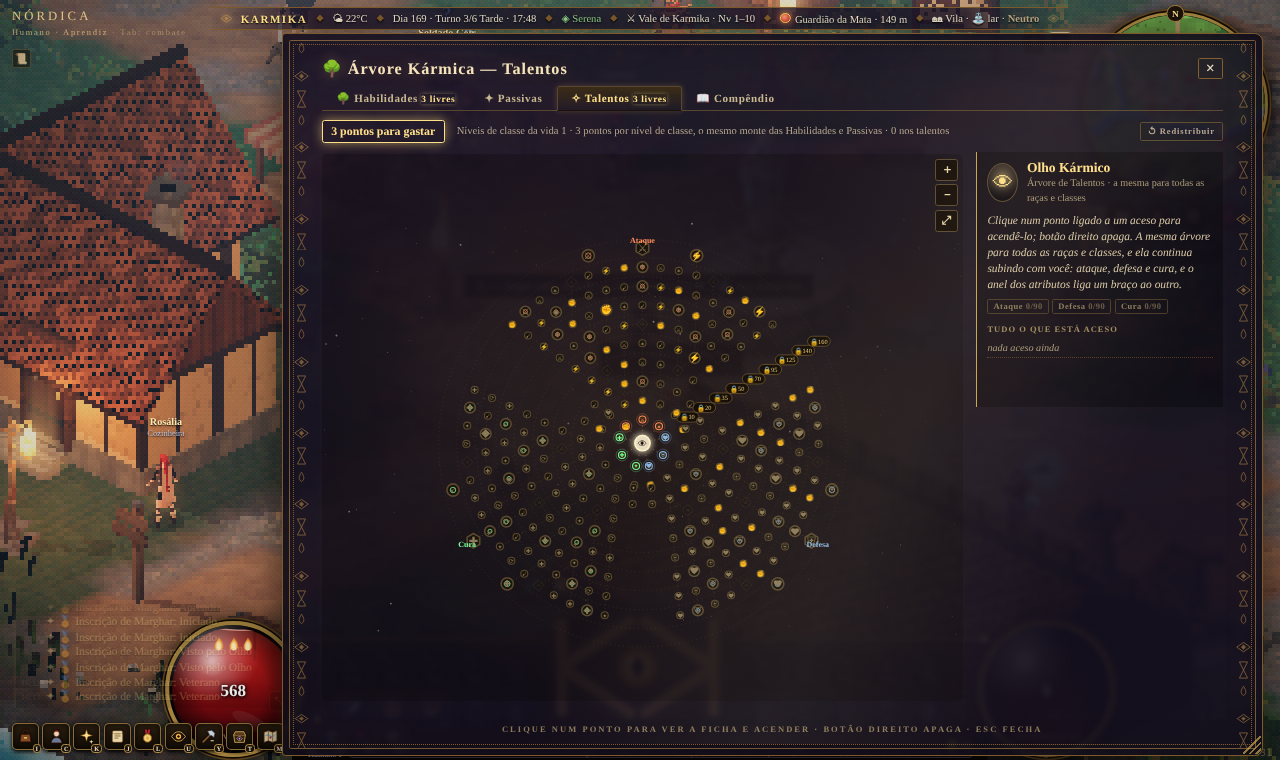
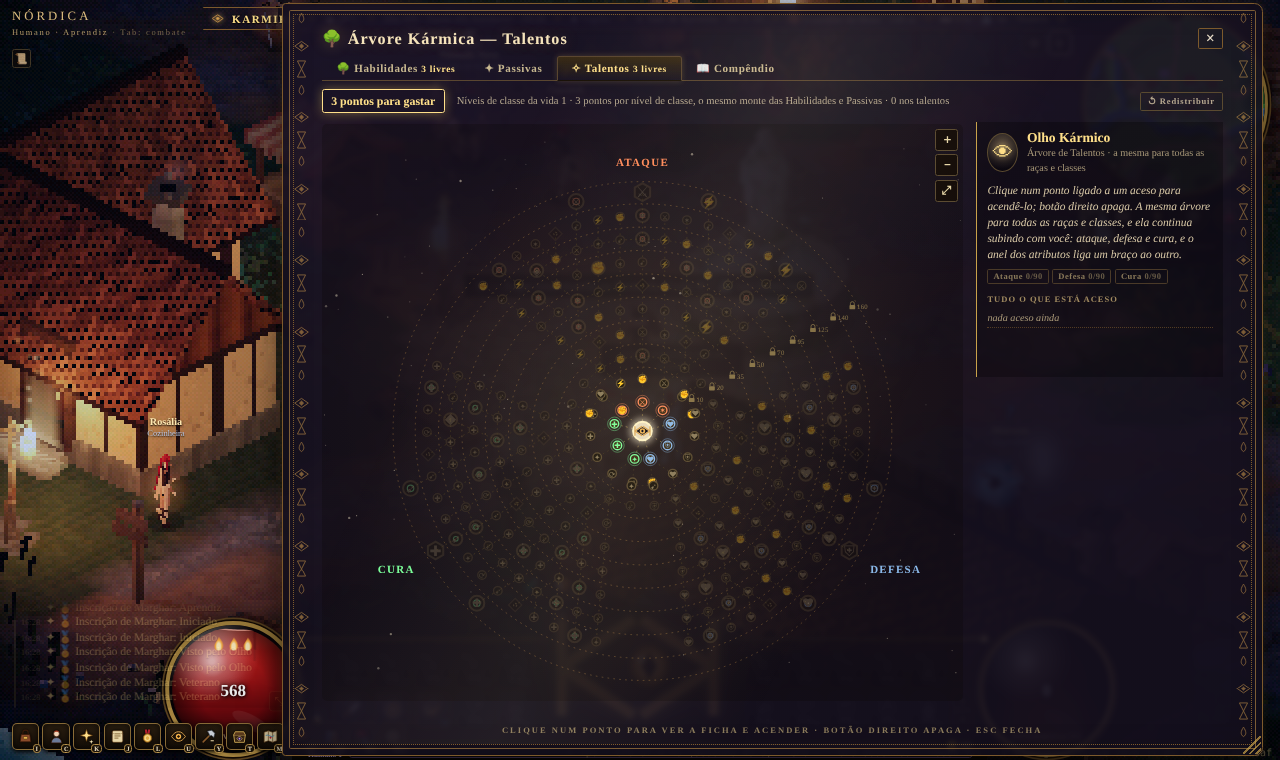
WebGPU: destruir buffer vira só marca (o three reusava buffer destruído) + registro de buffer velho; árvore: cadeado mínimo que brilha e quebra o lacre, nós trancados apagados, Olho com os dois K no centro, nomes dos braços fora do círculo; alinhamento kármico em escala de 10.000 (Lenda Viva = 5.000
Claude-Session: https://claude.ai/code/session_011Q13KsK35R24aYscTFTDoe

diff --git a/client/src/alinhamento.ts b/client/src/alinhamento.ts
@@ -1,5 +1,5 @@
 /* ALINHAMENTO KÁRMICO (Erling, 25/10): "o que os outros jogos chamam de reputação, no nosso é o alinhamento kármico com o lugar".
-   Cada vila e cidade, cada região e cada facção guarda o quanto a sua alma combina com ela (−100 a +100).
+   Cada vila e cidade, cada região e cada facção guarda o quanto a sua alma combina com ela (−10.000 a +10.000).
    - Sobe: missões dadas por gente do lugar (+6 história, +3 as outras), bichos derrubados perto das casas (+0,25), eventos vencidos
      do lado da luz no lugar (+5). A região sobe junto, mais devagar. A facção a que você jurou sobe +1 a cada missão (a outra cai −1).
    - Desce: comer gente no lugar (−20), sangue de gente nas ruas, eventos vencidos do lado da sombra (−5).
@@ -8,11 +8,15 @@
 import { floatWin } from './windows';
 
 export interface AlignTier { min: number; name: string; col: string; price: number }
+/* 04/11 (Erling: "já sou lenda viva no level 7? para alcançar Lenda Viva preciso de uns 5 mil pontos na vila"): escala de −10.000 a +10.000.
+   Cada ganho vale 10× (missão da história +60, outra +30, evento +50, festa +100) e o bicho perto das casas quase nada (+0,5). Lenda Viva = 5.000:
+   umas cem missões e muitos eventos pela vila. Os valores antigos (−100 a +100) são multiplicados por 10 uma vez. */
+export const ALIGN_SC = 10, ALIGN_MAX = 10000;
 export const TIERS: AlignTier[] = [
-  { min: -101, name: 'Odiado', col: '#c03a3a', price: 1.25 }, { min: -60, name: 'Hostil', col: '#e06a4a', price: 1.15 },
-  { min: -25, name: 'Desconfiado', col: '#d8a060', price: 1.05 }, { min: -5, name: 'Neutro', col: '#b8a888', price: 1 },
-  { min: 10, name: 'Conhecido', col: '#c8d890', price: 1 }, { min: 30, name: 'Amigo', col: '#8ad08a', price: 0.95 },
-  { min: 60, name: 'Honrado', col: '#6ab4ff', price: 0.92 }, { min: 85, name: 'Lenda Viva', col: '#ffd24a', price: 0.88 },
+  { min: -10001, name: 'Odiado', col: '#c03a3a', price: 1.25 }, { min: -5000, name: 'Hostil', col: '#e06a4a', price: 1.15 },
+  { min: -1500, name: 'Desconfiado', col: '#d8a060', price: 1.05 }, { min: -250, name: 'Neutro', col: '#b8a888', price: 1 },
+  { min: 500, name: 'Conhecido', col: '#c8d890', price: 1 }, { min: 1500, name: 'Amigo', col: '#8ad08a', price: 0.95 },
+  { min: 3000, name: 'Honrado', col: '#6ab4ff', price: 0.92 }, { min: 5000, name: 'Lenda Viva', col: '#ffd24a', price: 0.88 },
 ];
 export const tierOf = (v: number) => { let t = TIERS[0]; for (const x of TIERS) if (v >= x.min) t = x; return t; };
 type Kind = 'vila' | 'regiao' | 'faccao';
@@ -20,16 +24,17 @@ interface St { v: Record<string, number>; seen: Record<string, number>; flags: R
 const KEY = 'karmika.align.v1';
 export function createAlign(ctx: { places(): { name: string; kind: 'city' | 'village' }[]; regions(): string[]; factions(): { id: string; name: string }[]; myFac(): string | null; log(t: string, c?: string): void; /** uma linha sobre o lugar onde você está agora (festa, por que sim, por que não) */ status?(): string }) {
   let S: St = { v: {}, seen: {}, flags: {} }; try { const o = JSON.parse(localStorage.getItem(KEY) || 'null'); if (o?.v) S = { ...S, ...o }; } catch { /* */ }
+  if (!S.flags.x10) { for (const kk of Object.keys(S.v)) S.v[kk] = Math.max(-ALIGN_MAX, Math.min(ALIGN_MAX, S.v[kk] * ALIGN_SC)); S.flags.x10 = 1; try { localStorage.setItem(KEY, JSON.stringify(S)); } catch { /* */ } }
   const save = () => { try { localStorage.setItem(KEY, JSON.stringify(S)); } catch { /* */ } };
   const k = (kind: Kind, name: string) => `${kind}:${name}`;
   const get = (kind: Kind, name: string) => S.v[k(kind, name)] ?? 0;
   /** muda e avisa quando passa de faixa */
-  function add(kind: Kind, name: string, dv: number, why?: string, quiet = false) { if (!name || !dv) return; const key = k(kind, name), a = S.v[key] ?? 0, b = Math.max(-100, Math.min(100, a + dv)); S.v[key] = b;
+  function add(kind: Kind, name: string, dv: number, why?: string, quiet = false) { if (!name || !dv) return; const key = k(kind, name), a = S.v[key] ?? 0, b = Math.max(-ALIGN_MAX, Math.min(ALIGN_MAX, a + dv * ALIGN_SC)); S.v[key] = b;
     const ta = tierOf(a), tb = tierOf(b); if (ta !== tb && !quiet) ctx.log(`${b > a ? '▲' : '▼'} Alinhamento Kármico com ${name}: agora ${tb.name}${why ? ` (${why})` : ''}.`, tb.col); save(); if (open) render(); }
   /* ---------- a janela ---------- */
   const el = document.createElement('div'); el.id = 'alignw'; el.className = 'modalw'; document.body.appendChild(el); setTimeout(() => floatWin(el, 'align', { left: '30vw', top: '8vh' }), 0);
   let open = false, tab: Kind = 'vila';
-  const row = (name: string, v: number, sub = '') => { const t = tierOf(v), pct = (v + 100) / 2; return `<div class="alr"><div class="alh"><b>${name}</b><span style="color:${t.col}">${t.name}</span><em>${v > 0 ? '+' : ''}${Math.round(v)}</em></div><div class="albar"><i style="left:50%;width:0"></i><u style="left:${Math.min(50, pct)}%;width:${Math.abs(pct - 50)}%;background:${t.col}"></u></div>${sub ? `<small>${sub}</small>` : ''}</div>`; };
+  const row = (name: string, v: number, sub = '') => { const t = tierOf(v), pct = (v + ALIGN_MAX) / (ALIGN_MAX * 2) * 100; return `<div class="alr"><div class="alh"><b>${name}</b><span style="color:${t.col}">${t.name}</span><em>${v > 0 ? '+' : ''}${Math.round(v)}</em></div><div class="albar"><i style="left:50%;width:0"></i><u style="left:${Math.min(50, pct)}%;width:${Math.abs(pct - 50)}%;background:${t.col}"></u></div>${sub ? `<small>${sub}</small>` : ''}</div>`; };
   function render() { if (!open) { el.style.display = 'none'; return; }
     let body = '';
     if (tab === 'vila') { const P = ctx.places().slice().sort((a, b) => get('vila', b.name) - get('vila', a.name) || a.name.localeCompare(b.name)); body = P.map((p) => { const v = get('vila', p.name), t = tierOf(v); return row(`${p.kind === 'city' ? '🏰' : '🏘'} ${p.name}`, v, t.price !== 1 ? `Lojas daqui: ${t.price < 1 ? '−' : '+'}${Math.round(Math.abs(1 - t.price) * 100)}%` : S.seen[p.name] ? '' : 'Ainda não te conhecem.'); }).join(''); }

diff --git a/client/src/gpu/impl.ts b/client/src/gpu/impl.ts
@@ -245,9 +245,13 @@ export async function createGPURenderer(): Promise<THREE.WebGLRenderer | null> {
   /* 04/11 (erro do PC do Erling: "[Buffer] used in submit while destroyed"): o three destrói buffers e texturas da placa NA HORA em que um
      objeto/material/geometria muda ou some — às vezes no meio do quadro, com o comando que ainda usa aquele buffer (a sombra, a 1ª etapa)
      esperando para ser enviado. No WebGL isso não importa; no WebGPU o envio inteiro é recusado e, depois de alguns, o jogo caía para o
-     WebGL. Agora destruir é ADIADO: o buffer/textura vai para uma fila e só é destruído 3 quadros depois (gpuFlushDestroy, no fim do quadro). */
+     WebGL. (1ª tentativa: adiar 3 quadros — não bastou; ver abaixo) */
   { const GB = (globalThis as any).GPUBuffer?.prototype, GT2 = (globalThis as any).GPUTexture?.prototype;
-    for (const P of [GB, GT2]) if (P && !P.__kLate) { const real = P.destroy; P.__kLate = true; P.__kReal = real; P.destroy = function (this: any) { if (this.__kGone) return; this.__kGone = true; lateQ.push({ o: this, f: lateFrame, real }); }; } }
+    /* 2ª tentativa (04/11, mesmo erro no PC do Erling com o adiamento de 3 quadros): o three continua usando o buffer DEPOIS de pedir para
+       destruí-lo (referência velha guardada). Então destruir vira só uma marca: o buffer some sozinho quando ninguém mais aponta para ele
+       (o navegador libera a memória da placa no coletor de lixo). Se alguém ainda usar um buffer "destruído", conta e guarda de onde veio. */
+    for (const P of [GB, GT2]) if (P && !P.__kLate) { P.__kLate = true; P.destroy = function (this: any) { if (this.__kGone) return; this.__kGone = true; if (gpuState.staleLog.length < 4) this.__kWhy = (new Error().stack || '').split('\n').slice(2, 7).map((x) => x.trim()).join(' < '); }; }
+    const RP = (globalThis as any).GPURenderPassEncoder?.prototype; if (RP && !RP.__kChk) { RP.__kChk = true; for (const fn of ['setVertexBuffer', 'setIndexBuffer']) { const o = RP[fn]; RP[fn] = function (this: any, ...a: any[]) { const b = fn === 'setVertexBuffer' ? a[1] : a[0]; if (b?.__kGone) { gpuState.stale++; if (gpuState.staleLog.length < 4) { const m = `buffer velho em ${fn}: ${b.__kWhy ?? '?'}`; gpuState.staleLog.push(m); gpuState.log.unshift(m.slice(0, 400)); } } return o.apply(this, a); }; } } }
   const R = new (W as any).WebGPURenderer({ antialias: false, powerPreference: 'high-performance' });
   await R.init();
   if (!R.backend?.isWebGPUBackend) { R.dispose?.(); gpuState.why = 'o navegador não liberou o WebGPU'; return null; }

diff --git a/client/src/sistemas/festa.ts b/client/src/sistemas/festa.ts
@@ -20,7 +20,7 @@ function leavingQuest(stName: string) { for (const id of Object.keys(K.quests.q.
     const far = (d.turnin && K.npcHome(d.turnin)?.name && K.npcHome(d.turnin)!.name !== stName) || d.objs.some((o) => o.kind === 'visit' && o.poi !== stName && K.city.settlements.some((q) => q.name === o.poi)); if (far) return d; } return null; }
 /* a festa de despedida acontece em TODO lugar onde você é amado (Amigo ou mais; em Karmika basta Conhecido), uma vez por lugar, quando uma missão te leva embora */
 /** o painel do alinhamento diz, sem segredo, como está a festa do lugar onde você está (Erling, 26/10: "o Garrick não me fez o convite") */
-function festaStatus() { const st = K.hereSettle(); if (!st) return '📍 Você está fora de qualquer vila ou cidade agora.'; const nm = st.name, v = K.align.get('vila', nm), need = nm === 'Karmika' ? 10 : 30, t = K.align.tier('vila', nm), lq = leavingQuest(nm), ok = (b: boolean) => b ? '✔' : '✖';
+function festaStatus() { const st = K.hereSettle(); if (!st) return '📍 Você está fora de qualquer vila ou cidade agora.'; const nm = st.name, v = K.align.get('vila', nm), need = nm === 'Karmika' ? 100 : 300, t = K.align.tier('vila', nm), lq = leavingQuest(nm), ok = (b: boolean) => b ? '✔' : '✖';
   const counted = K.quests.q.done.filter((id) => K.align.flag('q:' + id)).length;
   if (K.align.flag('festa_' + nm)) return `📍 <b>${nm}</b>: <span style="color:${t.col}">${t.name} (${Math.round(v)})</span> · 🎉 a festa de despedida daqui já aconteceu.`;
   return `📍 <b>${nm}</b>: <span style="color:${t.col}">${t.name} (${v > 0 ? '+' : ''}${Math.round(v)})</span> · ${counted}/${K.quests.q.done.length} missões feitas já contaram<br>🎉 Festa de despedida: ${ok(v >= need)} alinhamento ${need}+ · ${ok(!!lq)} ${lq ? `“${lq.name}” te leva embora` : 'nenhuma missão da história dada aqui te leva para outro lugar'}${v >= need && lq ? ' · <b>pronta: o convite chega em instantes</b>' : ''}`; }

diff --git a/client/src/sistemas/conversa-npc.ts b/client/src/sistemas/conversa-npc.ts
@@ -57,7 +57,7 @@ function talkTo(n: (typeof K.npcSys.npcs)[number]) {
   if (nm === 'Elowen' || nm === 'Elowen do Porto') choices.push({ kind: 'custom', label: 'Abrir o Shop', hint: 'Premium e brasões', cb: () => { K.dlg.close(); K.loja.toggle('prem'); } });
   if (nm === 'Mestre-Forjador Brokki') choices.push({ kind: 'custom', label: 'Forja de Elite', hint: 'peças lendárias', cb: () => eliteForge(n) });
   { /* a festa também é um assunto de conversa: quem fechou o convite (ou clicou fora dele) ainda pode aceitar falando com quem deu a missão */
-    const stF = K.hereSettle()?.name ?? '', dF = stF && !K.festaSys.festa && !K.align.flag('festa_' + stF) && K.align.get('vila', stF) >= (stF === 'Karmika' ? 10 : 30) ? K.leavingQuest(stF) : null;
+    const stF = K.hereSettle()?.name ?? '', dF = stF && !K.festaSys.festa && !K.align.flag('festa_' + stF) && K.align.get('vila', stF) >= (stF === 'Karmika' ? 100 : 300) ? K.leavingQuest(stF) : null;
     if (dF && dF.giver === nm) choices.push({ kind: 'custom', label: '🎉 Aceitar a festa de despedida', hint: `${stF} quer se despedir de você`, cb: () => { K.dlg.close(); K.festaSys.festaAsked = stF; K.festaFade([`A notícia correu de casa em casa: ${K.profile?.name || 'o caminhante'} vai partir.`, `Ao cair da tarde, a praça de ${stF} se encheu de gente, de música e de cheiro de churrasco.`], () => K.startFesta(stF)); } }); }
   if (nm === 'Magistrado Corvin Aldmar' && localStorage.getItem(K.CARTA_K) === '1' && !K.social.guild) choices.push({ kind: 'custom', label: 'Registrar a minha guilda', hint: 'Carta Patente + 500 de ouro', cb: () => { K.dlg.close(); K.social.startFounding(); } });
   if (nm === 'Garrick') choices.push({ kind: 'board', label: 'Quadro de Missões', hint: 'contratos', cb: () => K.quests.openBoard() });

diff --git a/client/src/main.ts b/client/src/main.ts
@@ -453,7 +453,7 @@ const npcSys = createNpcs(scene, [
     if (g === 'lua') tags.push('lua', 'lua'); if (g === 'aurora') tags.push('aurora', 'aurora');
     if (entradaSys.combatMode || game.enemies.list.some((e) => e.alive && e.active && (e.state === 'chase' || e.state === 'windup') && Math.hypot(e.pos.x - heroPos.x, e.pos.z - heroPos.z) < 14)) tags.push('combate', 'combate', 'combate');
     if (game.st.hp < game.st.hpMax * 0.35) tags.push('ferido', 'ferido'); if (compSys.riding) tags.push('montado'); if (compSys.pet) tags.push('pet');
-    { const st = hereSettle(); if (st) { const v = align.get('vila', st.name); if (v >= 30) tags.push('rep_alta', 'rep_alta'); else if (v <= -25) tags.push('rep_baixa', 'rep_baixa');
+    { const st = hereSettle(); if (st) { const v = align.get('vila', st.name); if (v >= 300) tags.push('rep_alta', 'rep_alta'); else if (v <= -250) tags.push('rep_baixa', 'rep_baixa');
       if (v >= (st.name === 'Karmika' ? 10 : 30) && !align.flag('festa_' + st.name) && leavingQuest(st.name)) tags.push('despedida', 'despedida', 'despedida'); if (align.flag('festa_' + st.name) === 1 && !festaSys.festa) tags.push('volta'); if (festaSys.festa) tags.push('festa', 'festa', 'festa', 'festa'); } }
     if (game.st.lvl < 5) tags.push('novato'); else if (game.st.lvl >= 30) tags.push('veterano'); if (k >= 100) tags.push('luz'); if (k <= -100) tags.push('sombra', 'sombra');
     const P: Record<string, string> = { vam: 'vam', lob: 'lob', mag: 'mag', bru: 'bru', pal: 'pal', cac: 'cac', tec: 'tecno' }; if (pth && P[pth]) tags.push(P[pth], P[pth]); else if (isWarrior()) tags.push('gue'); } catch { /* ainda carregando */ }

diff --git a/client/src/sistemas/alinhamento-lugar.ts b/client/src/sistemas/alinhamento-lugar.ts
@@ -29,7 +29,7 @@ queueMicrotask(() => K.quests.addDoneHook((d) => { if (d.id === 'gu1') { try { l
   if (st) { align.add('vila', st.name, story ? 6 : 3, d.name); align.add('regiao', regionAt(st.x, st.y).name, story ? 2 : 1); }
   const f = myFac(); if (f) { align.add('faccao', f, 1); for (const k2 of Object.keys(FAC)) if (k2 !== f) align.add('faccao', k2, -1); } }));
 /** quem defende as casas: bicho derrubado perto do povoado soma um pouquinho */
-function alignKill(e: { pos?: THREE.Vector3; def?: { passive?: boolean } } | undefined) { if (!e?.pos || e.def?.passive) return; const st = settleAt(e.pos.x / T, e.pos.z / T, 25); if (st) align.add('vila', st.name, 0.25); }
+function alignKill(e: { pos?: THREE.Vector3; def?: { passive?: boolean } } | undefined) { if (!e?.pos || e.def?.passive) return; const st = settleAt(e.pos.x / T, e.pos.z / T, 25); if (st) align.add('vila', st.name, 0.05); }
 /* chegada e volta: quem é querido é recebido; a festa só acontece uma vez */
 let alignChk = 0, alignHere = '';
 function alignTick(dt: number) { void dt; const nowA = performance.now(); if (nowA < alignChk) return; alignChk = nowA + 1000; /* relógio de verdade */ alignCatchup(); const st = hereSettle(), nm = st?.name ?? '';

diff --git a/client/src/gpu/tags.ts b/client/src/gpu/tags.ts
@@ -4,7 +4,7 @@
    o mesmo efeito em nós (TSL), que o WebGPU entende. */
 const TAGS = new WeakMap<object, Record<string, unknown>>();
 /** o renderizador do jogo é WebGPU? (decidido na abertura, antes de o mundo ser montado) */
-export const gpuState = { on: false, backend: 'webgl' as 'webgl' | 'webgpu', why: '', errs: 0, lost: false, log: [] as string[], pipes: 0, pipeLog: [] as string[], snaps: 0, snapLog: [] as string[], frame: 0, dc: [] as number[] };
+export const gpuState = { on: false, backend: 'webgl' as 'webgl' | 'webgpu', why: '', errs: 0, lost: false, log: [] as string[], pipes: 0, pipeLog: [] as string[], snaps: 0, snapLog: [] as string[], frame: 0, dc: [] as number[], stale: 0, staleLog: [] as string[] };
 export function gpuTag<T extends object>(m: T, key: string, data: unknown = true): T { let r = TAGS.get(m); if (!r) TAGS.set(m, (r = {})); r[key] = data; return m; }
 export const gpuTagsOf = (m: object) => TAGS.get(m);
 export function gpuUntag(m: object, key: string) { const r = TAGS.get(m); if (r) delete r[key]; }
